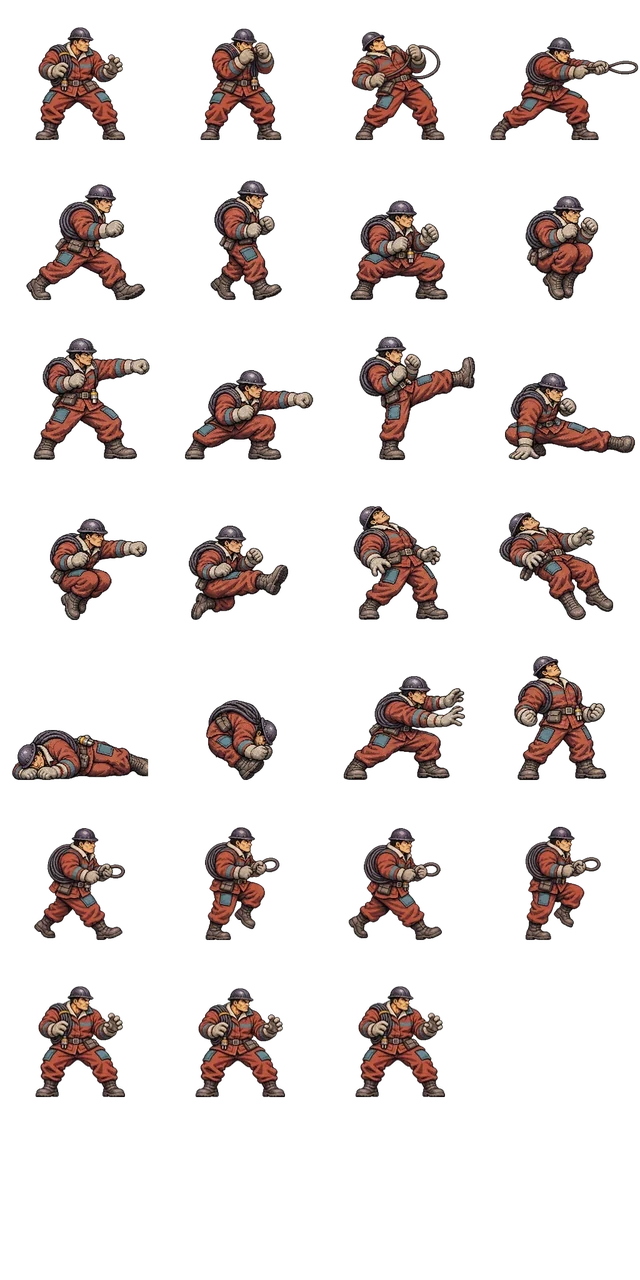
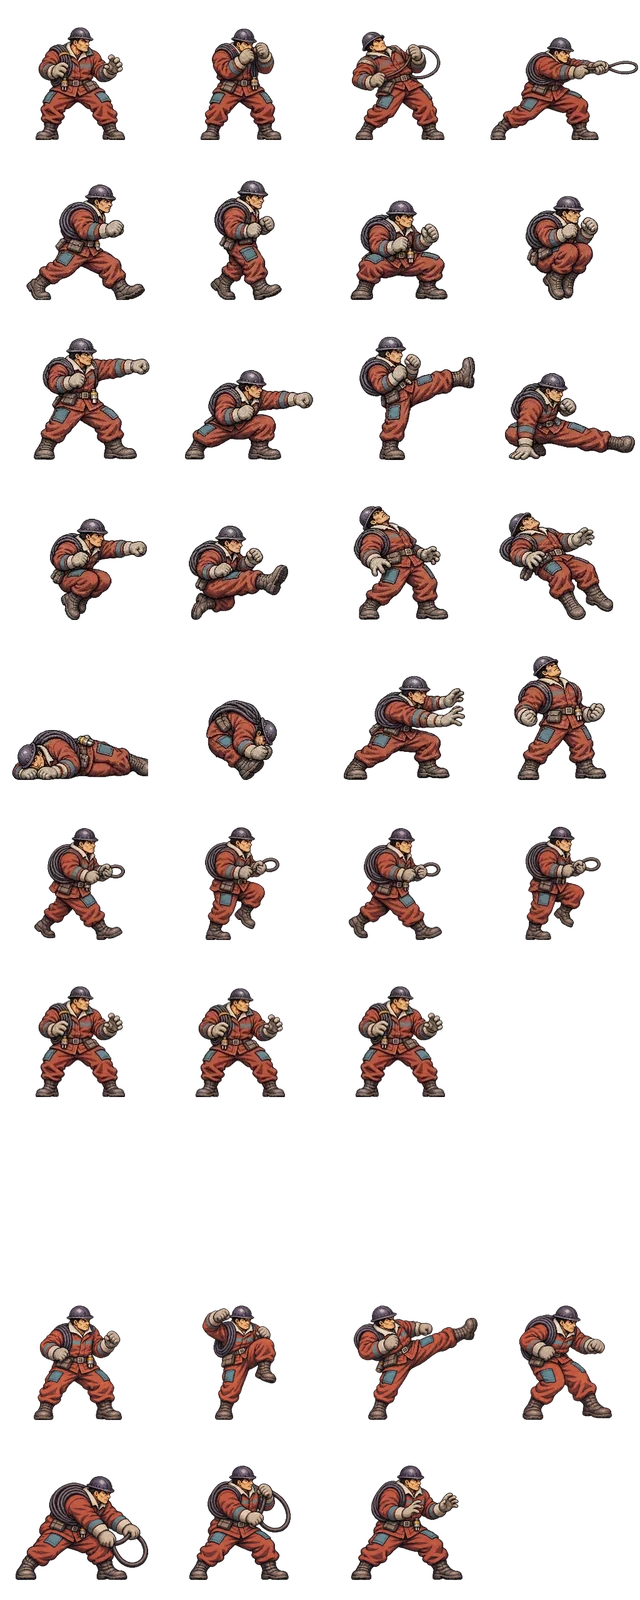
Differentiate combat timing and poses for Lin Xiao and Lei Jun

diff --git a/tests/unit/e4-duel-feedback.test.js b/tests/unit/e4-duel-feedback.test.js
@@ -1,0 +1,33 @@
+import { expect, it } from 'vitest';
+import { Game } from '../../src/engine/game.js';
+import { getCharacter } from '../../src/theme/index.js';
+
+function resolveStrike(attacker, distance, input, guard = false) {
+  const defender = attacker === 'c01' ? 'c03' : 'c01';
+  const game = new Game({
+    characters: [attacker, defender].map(getCharacter),
+    training: true, p1x: 350, p2x: 350 + distance,
+  });
+  for (let frame = 0; frame < 55; frame++) {
+    game.step([frame === 0 ? input : {}, guard ? { right: true } : {}]);
+    const state = game.getState();
+    const contact = state.events.find(e => ['hit', 'block', 'throw'].includes(e.type));
+    if (contact) return { contact, hitstop: state.hitstop, action: state.fighters[1].action };
+  }
+  return null;
+}
+
+it('轻拳、重脚、重防与落空保留不同的反馈', () => {
+  expect(resolveStrike('c01', 44, { lp: true })).toMatchObject({ contact: { type: 'hit' }, hitstop: 6 });
+  expect(resolveStrike('c01', 66, { hk: true })).toMatchObject({ contact: { type: 'hit', id: 'st.hk' }, hitstop: 10 });
+  expect(resolveStrike('c01', 66, { hk: true }, true)).toMatchObject({ contact: { type: 'block', heavy: true }, hitstop: 5 });
+  expect(resolveStrike('c01', 112, { hk: true })).toBeNull();
+});
+
+it('电缆缠摔成功时触发专用顿帧，落空时没有接触反馈', () => {
+  const input = { special: 'zhongdan' };
+  expect(resolveStrike('c03', 44, input)).toMatchObject({
+    contact: { type: 'throw', id: 'zhongdan', command: true }, hitstop: 7, action: 'airhit',
+  });
+  expect(resolveStrike('c03', 66, input)).toBeNull();
+});

diff --git a/src/render/atlas.js b/src/render/atlas.js
@@ -42,7 +42,7 @@ export function validateAtlas(json, character, img) {
     if (!a) { errs.push(`缺少动画：${key}`); continue; }
     if (!Array.isArray(a.frames) || !a.frames.length) errs.push(`${key}：frames 为空`);
     else if (a.frames.some(i => !Number.isInteger(i) || i < 0 || i >= total)) errs.push(`${key}：帧序号越界`);
-    else if (a.phaseFrames && a.frames.length !== 3) errs.push(`${key}：需提供起手、命中和收招三个姿势`);
+    else if (a.phaseFrames && a.frames.length < 3) errs.push(`${key}：需提供起手、命中和收招姿势`);
   }
   if (!(json.anchor.x >= 0 && json.anchor.x <= json.frameW && json.anchor.y >= 0 && json.anchor.y <= json.frameH)) errs.push('anchor 超出单帧范围');
   return errs;
@@ -77,9 +77,12 @@ class Atlas {
     const a = this.json.animations[key];
     if (f.action === 'attack' && f.move && key !== 'idle') {
       if (a.phaseFrames) {
-        const { frame, startup, active } = f.move;
+        const { frame, startup, active, total } = f.move;
         const impact = startup + (a.release ? Math.max(active, 5) : active);
-        return a.frames[frame <= startup ? 0 : frame <= impact ? 1 : 2];
+        if (frame <= startup) return a.frames[0];
+        if (frame <= impact) return a.frames[1];
+        const recovery = Math.floor((frame - impact - 1) * (a.frames.length - 2) / Math.max(1, total - impact));
+        return a.frames[Math.min(a.frames.length - 1, 2 + recovery)];
       }
       const k = Math.min(a.frames.length - 1, Math.floor(((f.move.frame - 1) / Math.max(1, f.move.total)) * a.frames.length));
       return a.frames[k];

diff --git a/src/engine/game.js b/src/engine/game.js
@@ -555,9 +555,10 @@ export class Game {
     } else {
       f.move.connected = true;
     }
+    if (m.hitstop) this.hitstop = Math.max(this.hitstop, m.hitstop);
     this._gain(f, m.meterGain ?? METER.gain.throw);
     this._gain(t, dmg * METER.gain.damagedPerPoint);
-    this.emit('throw', { attacker: f.index, defender: t.index, damage: dmg, back, command: isCommand });
+    this.emit('throw', { attacker: f.index, defender: t.index, damage: dmg, back, command: isCommand, id: m.id });
   }
 
   // ============================================================ 物理
@@ -761,7 +762,7 @@ export class Game {
       this.hitstop = Math.max(this.hitstop, HITSTOP.block);
       this._gain(att, baseGain * METER.gain.blockMul);
       this._gain(d, 1);
-      this.emit('block', { attacker: att.index, defender: d.index, damage: dmg, id: m.id, x: d.x, y: d.y + 60 });
+      this.emit('block', { attacker: att.index, defender: d.index, damage: dmg, id: m.id, heavy: strength === 'h' || kind === 'super', x: d.x, y: d.y + 60 });
       return;
     }
 

diff --git a/src/render/effects.js b/src/render/effects.js
@@ -27,8 +27,8 @@ export class Effects {
         if (sup) this.wave(e.x, e.y, '#ffe680', 70, 18);
       } else if (e.type === 'block') {
         this.shield(e.x, e.y);
-        this.glow(e.x, e.y, 14, '#9fe3ff', 6);
-        this.sparks(e.x, e.y, '#7ad7ff', 6, 2.2, e.defender);
+        this.glow(e.x, e.y, e.heavy ? 23 : 14, '#9fe3ff', 6);
+        this.sparks(e.x, e.y, '#7ad7ff', e.heavy ? 10 : 6, 2.2, e.defender);
       } else if (e.type === 'clash') {
         this.glow(e.x, e.y, 30, '#ffffff', 10);
         this.sparks(e.x, e.y, '#ffffff', 14, 3.5, 0);
@@ -37,6 +37,7 @@ export class Effects {
         const d = state.fighters[e.defender];
         this.glow(d.x, d.y + 50, 22, '#ffd8a0', 8);
         this.sparks(d.x, d.y + 50, '#ffb347', 10, 3, e.attacker);
+        if (e.id === 'zhongdan') this.wave(d.x, d.y + 45, '#ffe0a6', 32, 11);
       } else if (e.type === 'max') {
         const f = state.fighters[e.player];
         this.ring(f.x, f.y + 50, '#ff6a2b');

diff --git a/src/render/renderer.js b/src/render/renderer.js
@@ -85,13 +85,14 @@ export class Renderer {
         const sup = e.kind === 'super';
         const big = sup || e.damage >= 90;
         if (big) this.shake = Math.max(this.shake, sup ? 9 : 5);
-        else this.shake = Math.max(this.shake, 2);
+        else this.shake = Math.max(this.shake, e.damage < 50 ? 0.8 : 2);
         this.hitFlash[e.defender] = sup ? 5 : 3;
         if (e.counter) { this.stats.counters = (this.stats.counters ?? 0) + 1; this.flash = Math.max(this.flash, 2); this.shake = Math.max(this.shake, 4); }
         this.jitter[e.defender] = sup ? 14 : big ? 10 : 6;
         if (big) this.punchZoom(sup ? 1.14 : 1.05, e.x, e.y);
       }
       if (e.type === 'block') this.shake = Math.max(this.shake, 1.5);
+      if (e.type === 'throw' && e.id === 'zhongdan') this.shake = Math.max(this.shake, 4);
       if (e.type === 'super') {
         this.flash = 5; this.darken = 44;
         const ch = chars[e.player];

diff --git a/tests/unit/a1-roster-atlas.test.js b/tests/unit/a1-roster-atlas.test.js
@@ -12,13 +12,13 @@ describe('新版角色图集覆盖', () => {
       const mobile = read(desktop.sd);
       for (const atlas of [desktop, mobile]) {
         expect(atlas.artRevision).toBeTruthy();
-        expect(theme.characterArtQuery).toBe(`?art=${atlas.artRevision}`);
         expect(atlas.preview).toBeUndefined();
         expect(existsSync(root + atlas.image)).toBe(true);
         expect(validateAtlas(atlas, fighter)).toEqual([]);
         for (const key of requiredAnims(fighter)) expect(atlas.animations[key].frames.length).toBeGreaterThan(0);
       }
       expect(mobile.animations).toEqual(desktop.animations);
+      expect(mobile.artRevision).toBe(desktop.artRevision);
     });
   }
 });

diff --git a/src/render/audio.js b/src/render/audio.js
@@ -249,6 +249,7 @@ export class Audio {
       else SOUNDS[e.type](this.ctx, this.bus?.sfx ?? this.out, e);
       // 重击和反击：叠一记低频闷响，打击更"沉"
       if (e.type === 'hit' && (e.damage >= 90 || e.counter || e.kind === 'super')) thump(this.ctx, this.bus?.sfx ?? this.out, e.kind === 'super' ? 1 : 0.7);
+      if (e.type === 'block' && e.heavy) thump(this.ctx, this.bus?.sfx ?? this.out, 0.25);
     }
   }
 

diff --git a/src/theme/meilong/characters/c03.js b/src/theme/meilong/characters/c03.js
@@ -361,6 +361,7 @@ export default {
       "active": 2,
       "recovery": 34,
       "damage": 160,
+      "hitstop": 7,
       "stun": 12,
       "throw": true,
       "range": 56,
